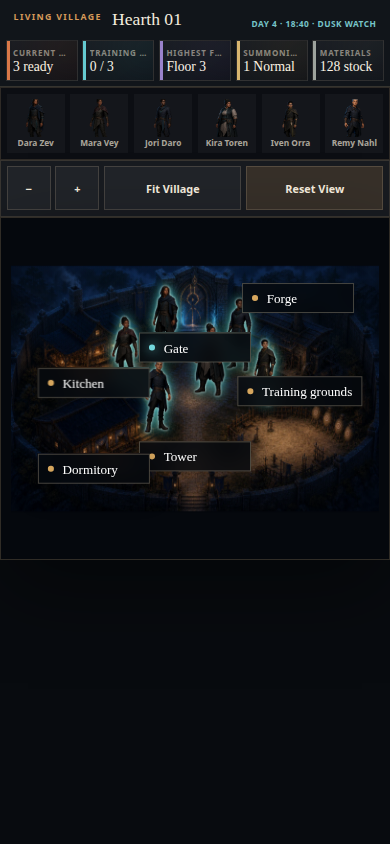
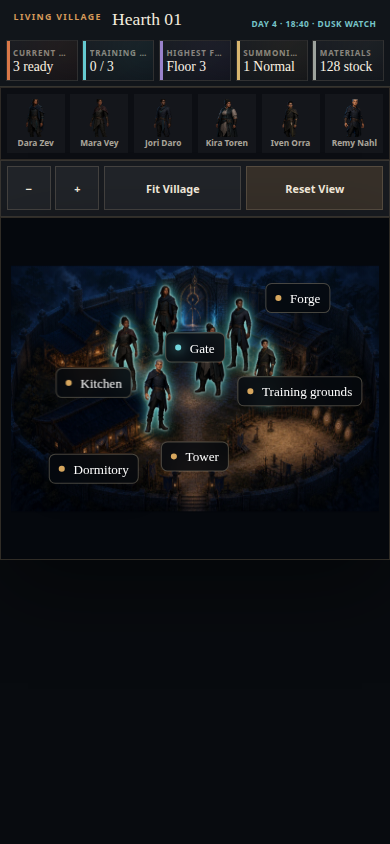
fix: tighten Village facility labels

diff --git a/apps/web/src/routes/living-village-lab/village/village.e2e.ts b/apps/web/src/routes/living-village-lab/village/village.e2e.ts
@@ -76,11 +76,23 @@ test('unifies Village hotspots, resident inspection, orders, and camera controls
 		forgeHotspot,
 		dormitoryHotspot
 	]) {
+		const label = hotspot.locator('span');
+		const labelBounds = await label.boundingBox();
 		const dotBounds = await hotspot.locator('i').boundingBox();
 		const textBounds = await hotspot.locator('strong').boundingBox();
+		await expect
+			.poll(() => hotspot.evaluate((element) => getComputedStyle(element).borderTopLeftRadius))
+			.toBe('6%');
+		expect(
+			await label.evaluate((element) => parseFloat(getComputedStyle(element).borderTopLeftRadius))
+		).toBeGreaterThan(5);
+		expect(labelBounds!.width - dotBounds!.width - textBounds!.width).toBeLessThan(32);
 		expect(
 			Math.abs(dotBounds!.y + dotBounds!.height / 2 - (textBounds!.y + textBounds!.height / 2))
 		).toBeLessThan(1);
+	}
+	for (const hotspot of [gateHotspot, towerHotspot]) {
+		expect((await hotspot.locator('span').boundingBox())!.width).toBeLessThan(80);
 	}
 	for (const hotspot of [courtHotspot, towerHotspot, forgeHotspot]) {
 		const hotspotBounds = await hotspot.boundingBox();

diff --git a/apps/web/src/lib/components/living-village/village/VillageViewport.svelte b/apps/web/src/lib/components/living-village/village/VillageViewport.svelte
@@ -755,7 +755,7 @@
 		width: var(--width);
 		height: var(--height);
 		border: 2px solid transparent;
-		border-radius: 12%;
+		border-radius: 6%;
 		background: transparent;
 		color: white;
 		cursor: pointer;
@@ -783,14 +783,16 @@
 		display: flex;
 		align-items: center;
 		gap: 0.55rem;
-		min-width: 7rem;
+		width: max-content;
 		padding: 0.48rem 0.58rem;
 		border: 1px solid rgba(239, 221, 187, 0.28);
+		border-radius: 0.4rem;
 		background: rgba(5, 9, 13, 0.82);
 		box-shadow: 0 0.6rem 1.5rem rgba(0, 0, 0, 0.34);
 		transform: translate(-50%, -50%) scale(calc(1 / var(--scene-scale)));
 		transform-origin: center;
 		backdrop-filter: blur(8px);
+		white-space: nowrap;
 		pointer-events: none;
 	}
 

diff --git a/docs/evidence/living-village-village-validation.md b/docs/evidence/living-village-village-validation.md
@@ -28,7 +28,8 @@ compact find/focus ribbon. No separate roster route was created.
 - Existing Hearth environment with six named facility regions: Gate, Kitchen, Forge, Dormitory,
   Training Grounds, and Tower. Forge, Training Grounds, and Tower labels straddle non-colliding top
   borders; Gate, Kitchen, and Dormitory use lower borders. Gate and Tower use taller interaction
-  regions that push those label-bearing edges away from their focal architecture.
+  regions that push those label-bearing edges away from their focal architecture. Region corners
+  use a restrained 6% radius, while each rounded label shrink-wraps its status dot and text.
 - Bounded 100–300% camera with pointer drag from the map, heroes, or facility regions; wheel zoom;
   two-pointer pinch; keyboard zoom/pan; visible zoom controls; Fit; and Reset. A small drag allowance
   remains available at fitted zoom so the camera never feels inert.
@@ -70,8 +71,9 @@ pnpm --filter @summonlab/web exec playwright test \
 
 Result: **2 passed**. The test proves direct static loading, no `/api/` requests, the natural
 1536×1024 Hearth asset, six labeled facility regions, enlarged Gate/Tower bounds, intentional label
-edges, vertically centered facility status dots, six true-alpha in-world figures with bounded
-progressive zoom scaling, absence of the destination
+edges, vertically centered facility status dots, content-sized rounded labels, squarer region
+corners, six true-alpha in-world figures with bounded progressive zoom scaling, absence of the
+destination
 panel/resident-count/camera-help annotations, in-world hero selection, ribbon
 focus, anchored popover, details drawer, availability light removal after Court assignment, Court
 training, species hunt, and Dormitory rest popover dismissal and destination state, pointer pan
@@ -166,6 +168,12 @@ route-local label, hover, selection, and camera-drag behavior as the existing re
 Court training and Tower hunting as a primary hero order; it dismisses the command popover, sends
 the hero to an authored Dormitory position, and exposes `Resting in the Dormitory` as their current
 activity without inventing persistence or recovery statistics.
+
+The latest label review removed the fixed seven-rem minimum that left unused space after short names
+such as Gate and Tower. Facility labels now use `max-content` sizing around the aligned dot and text,
+retain exact region-edge centering, and carry modest rounded corners. The interaction regions were
+reduced from a 12% to 6% corner radius so illuminated outlines read more architectural and less
+pill-shaped.
 
 ## Useful review actions
 
